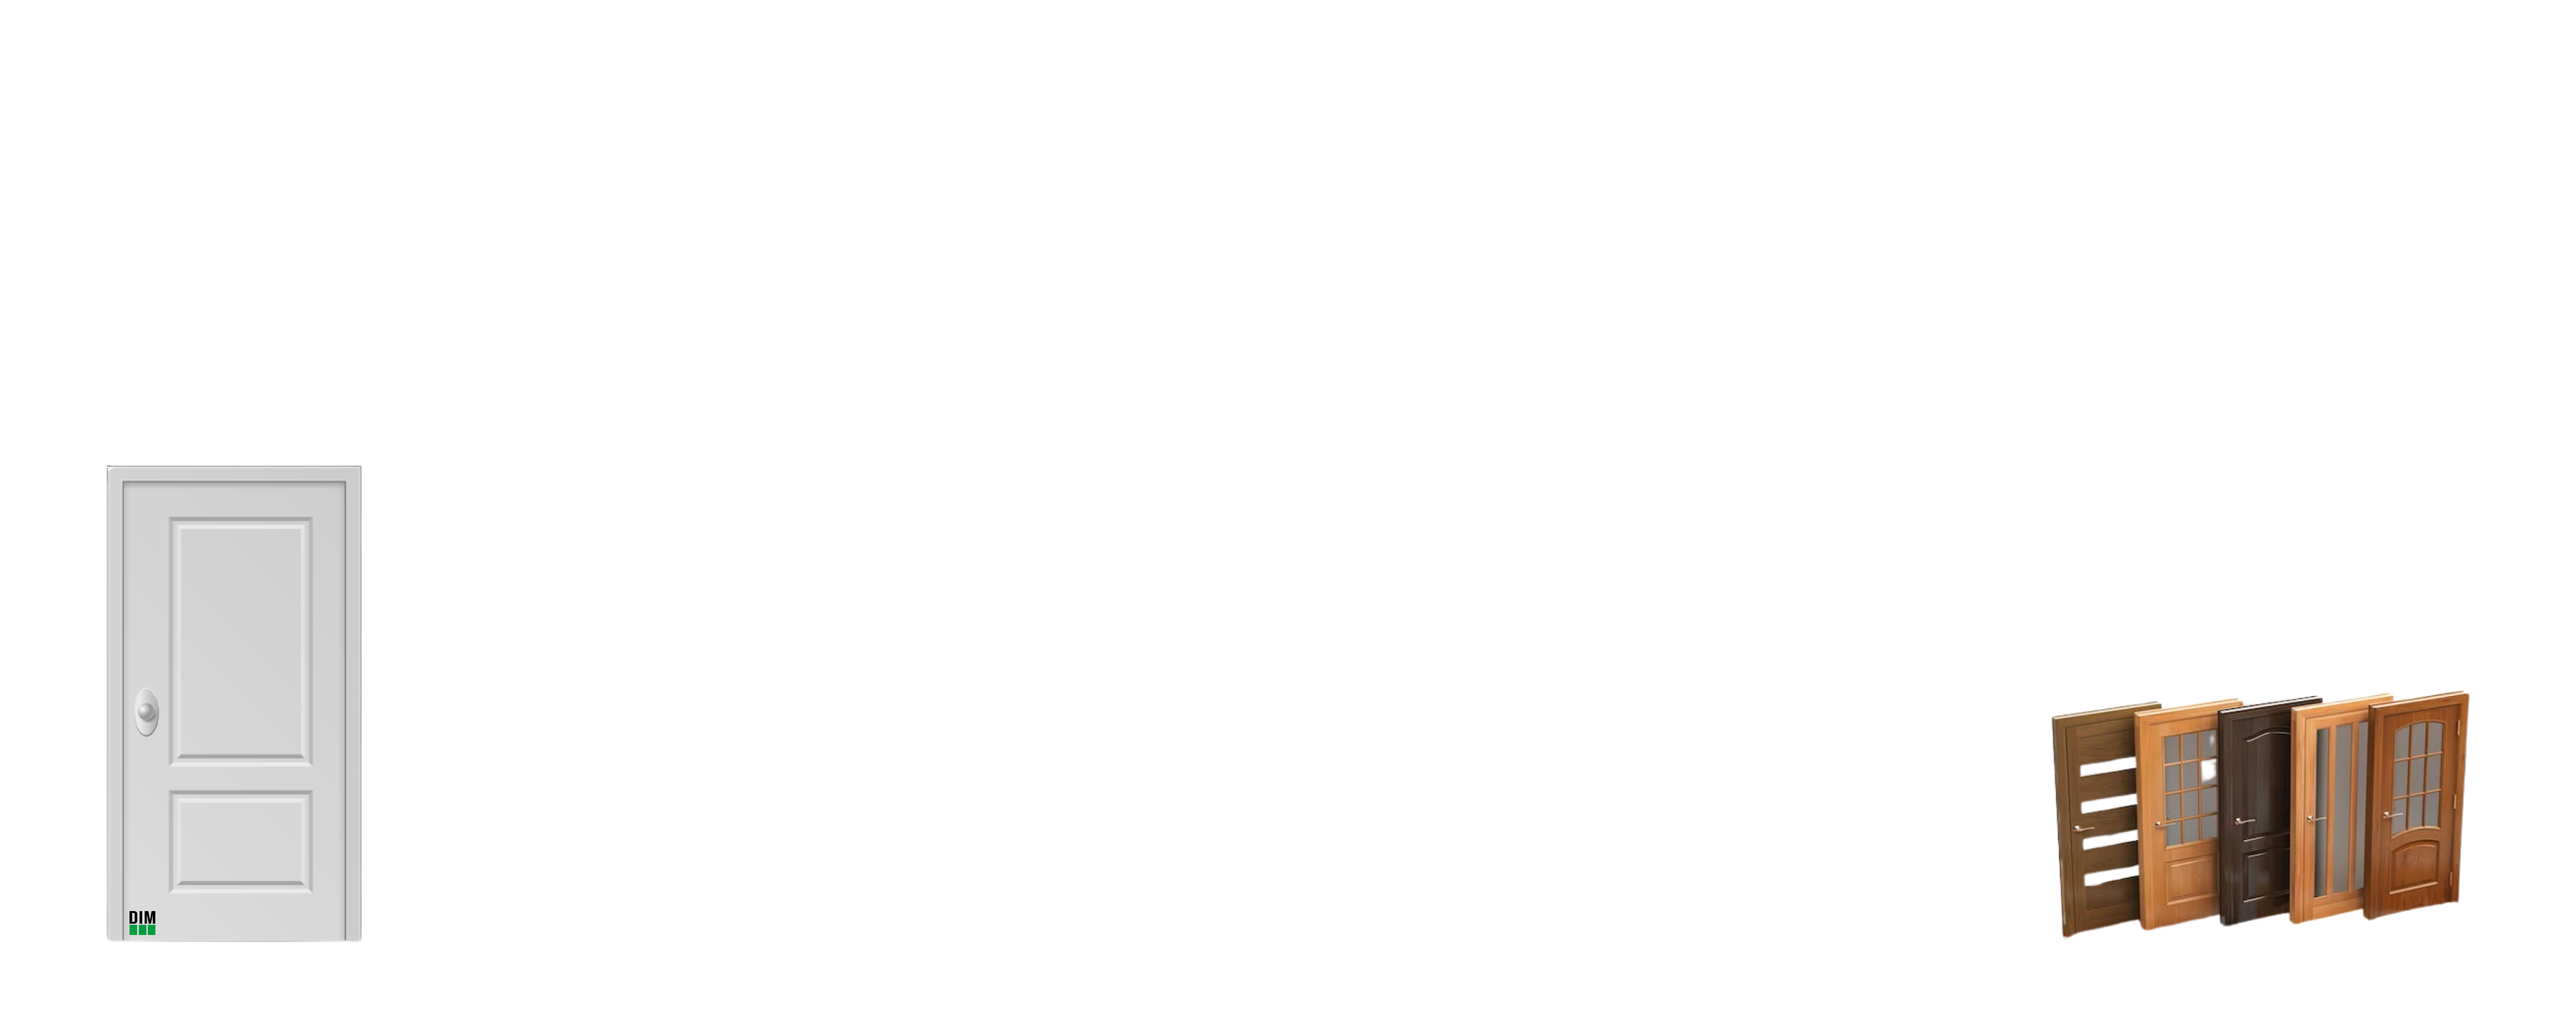
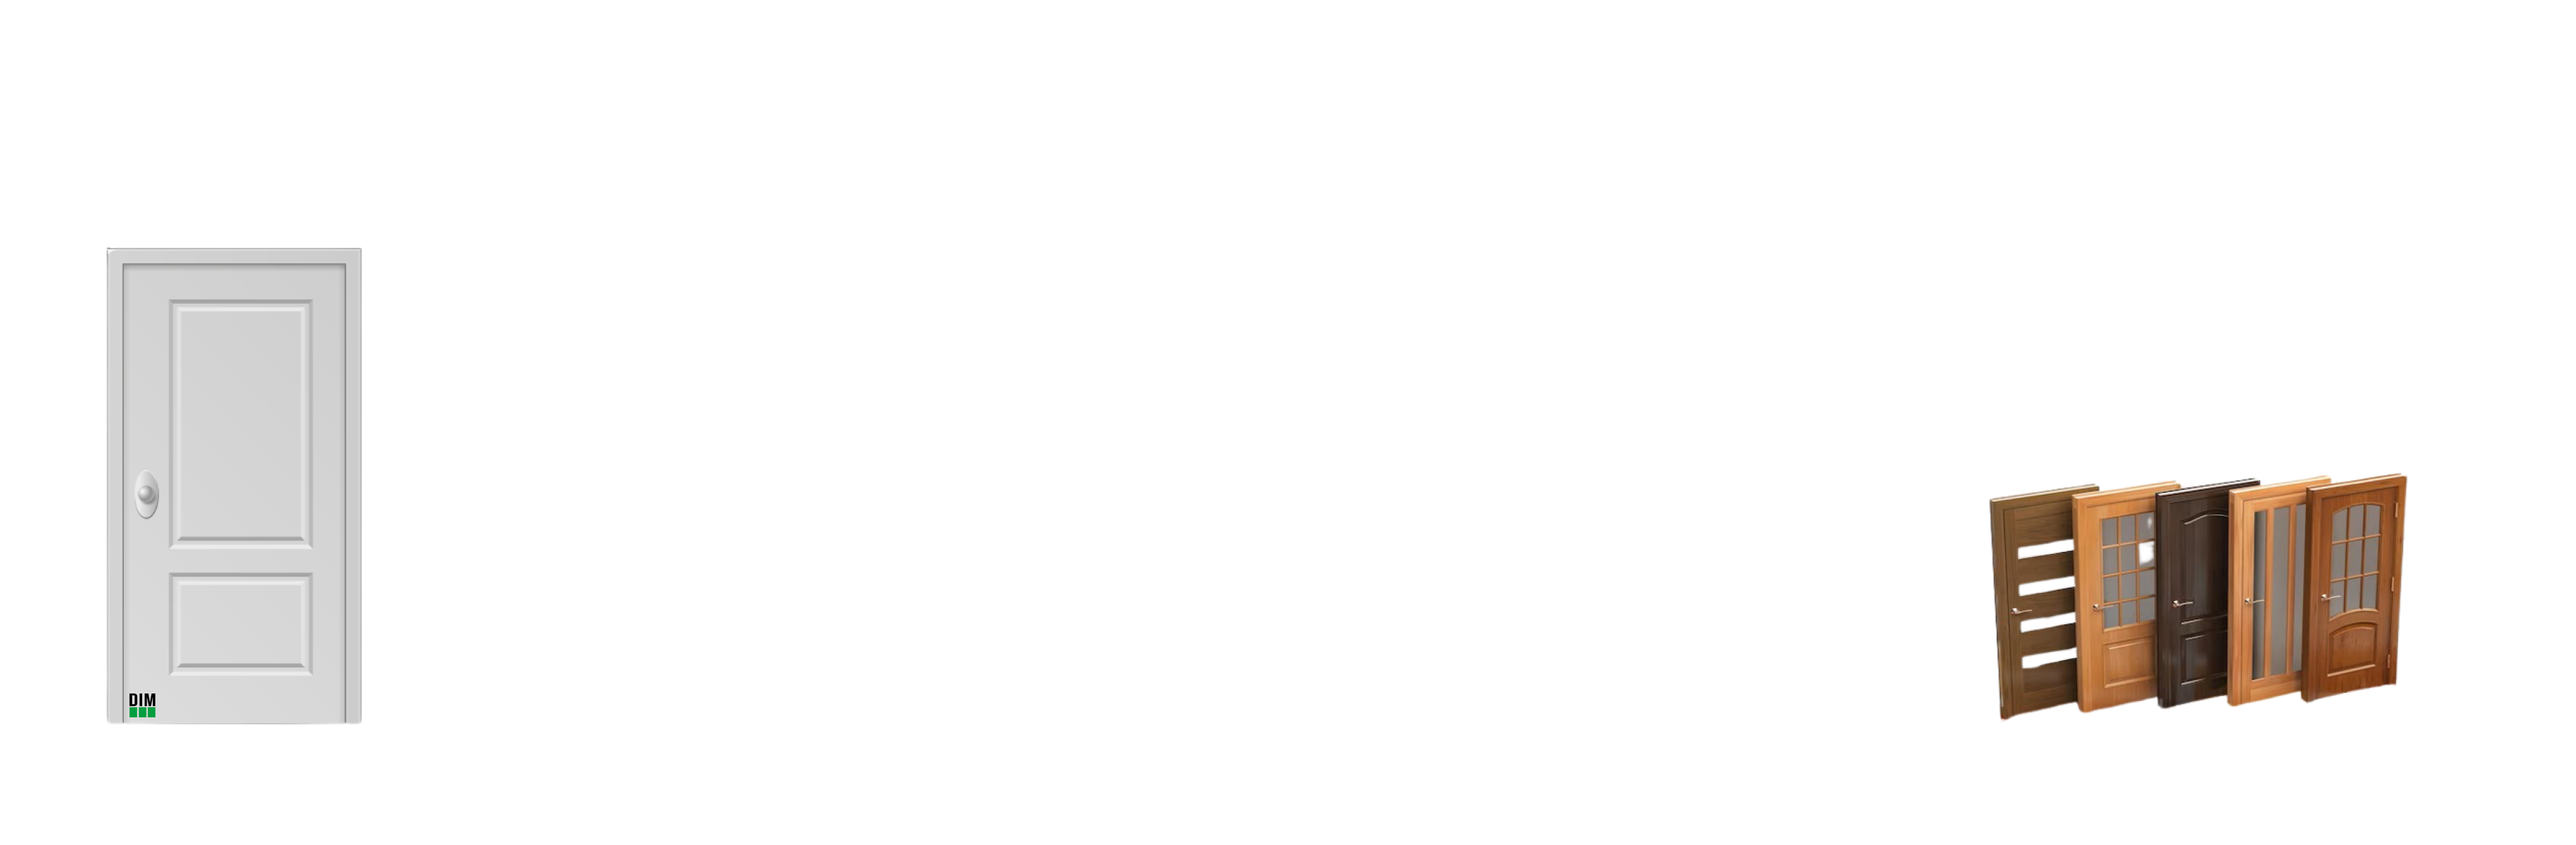
h

diff --git a/diseño2.css b/diseño2.css
@@ -1087,7 +1087,7 @@ nav.open~.overlay {
 .fondoPuertasHigh {
     margin-bottom: 5rem;
     width: 100%;
-    height: 35rem;
+    height: 25rem;
     background-image: url(img/fondopuertas.png);
     background-repeat: no-repeat;
     background-position: center;
